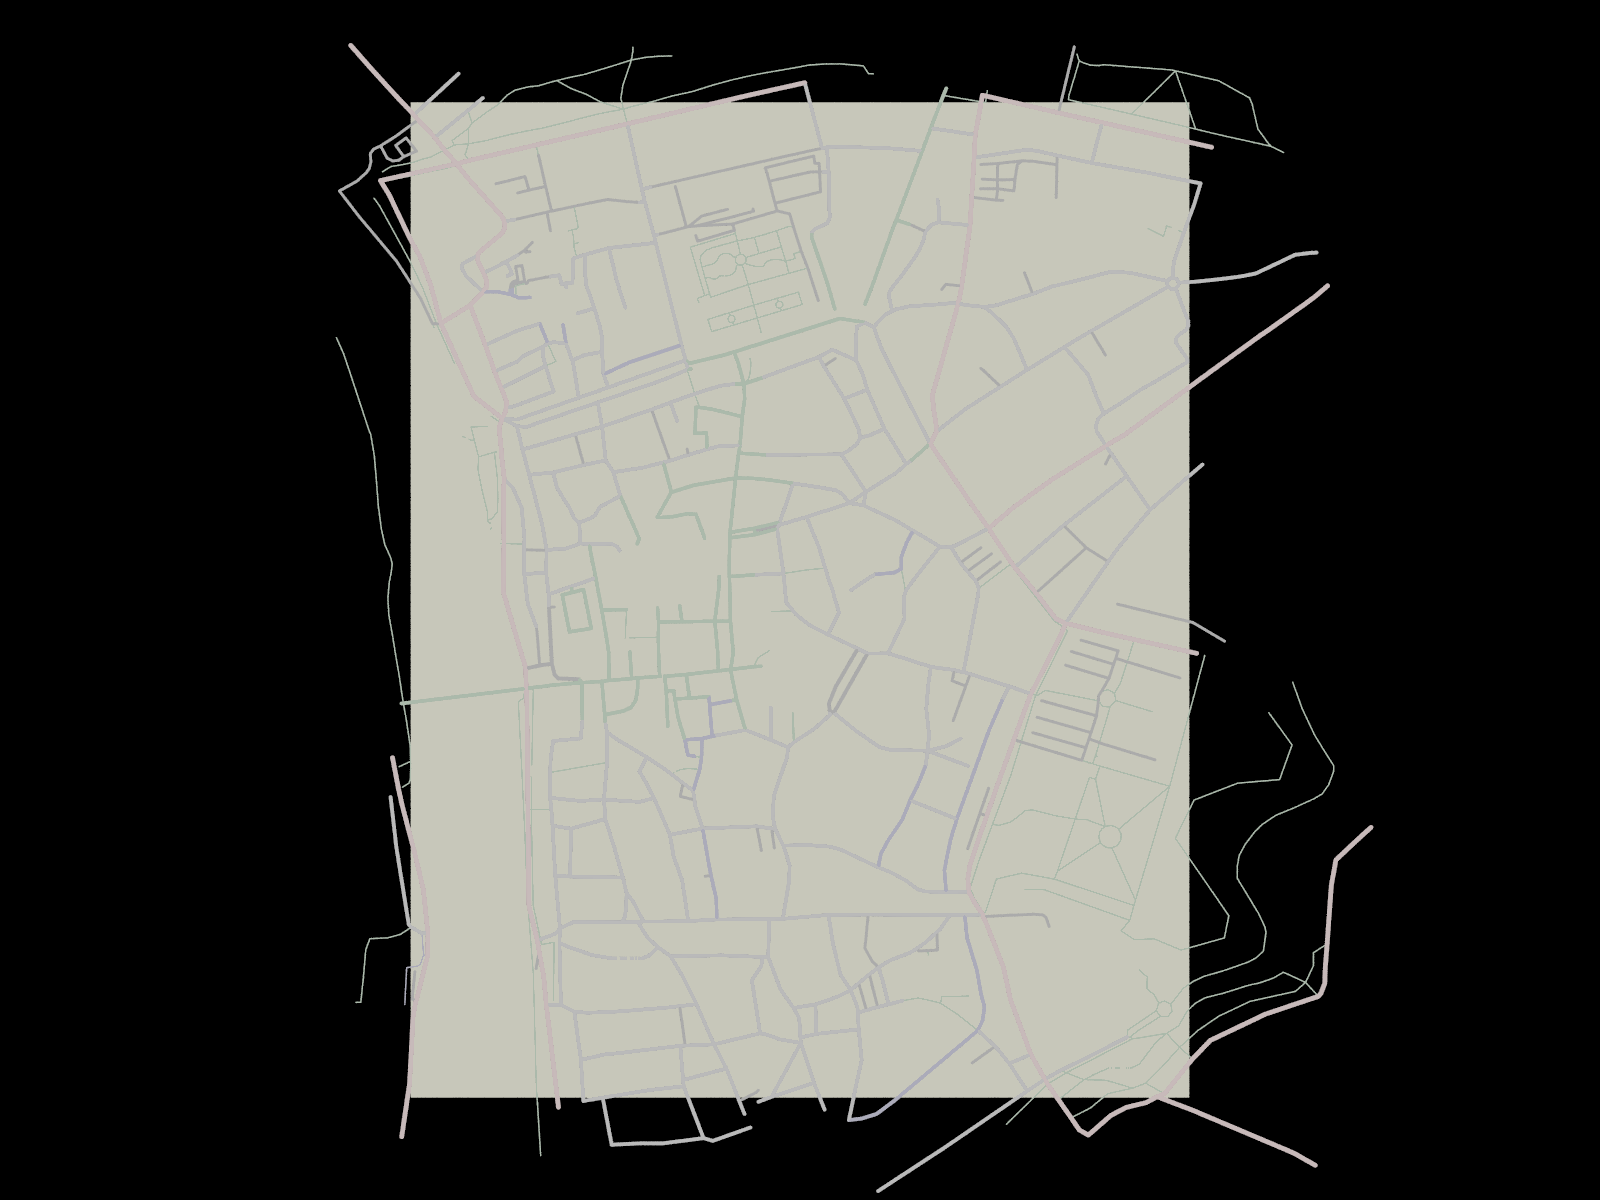
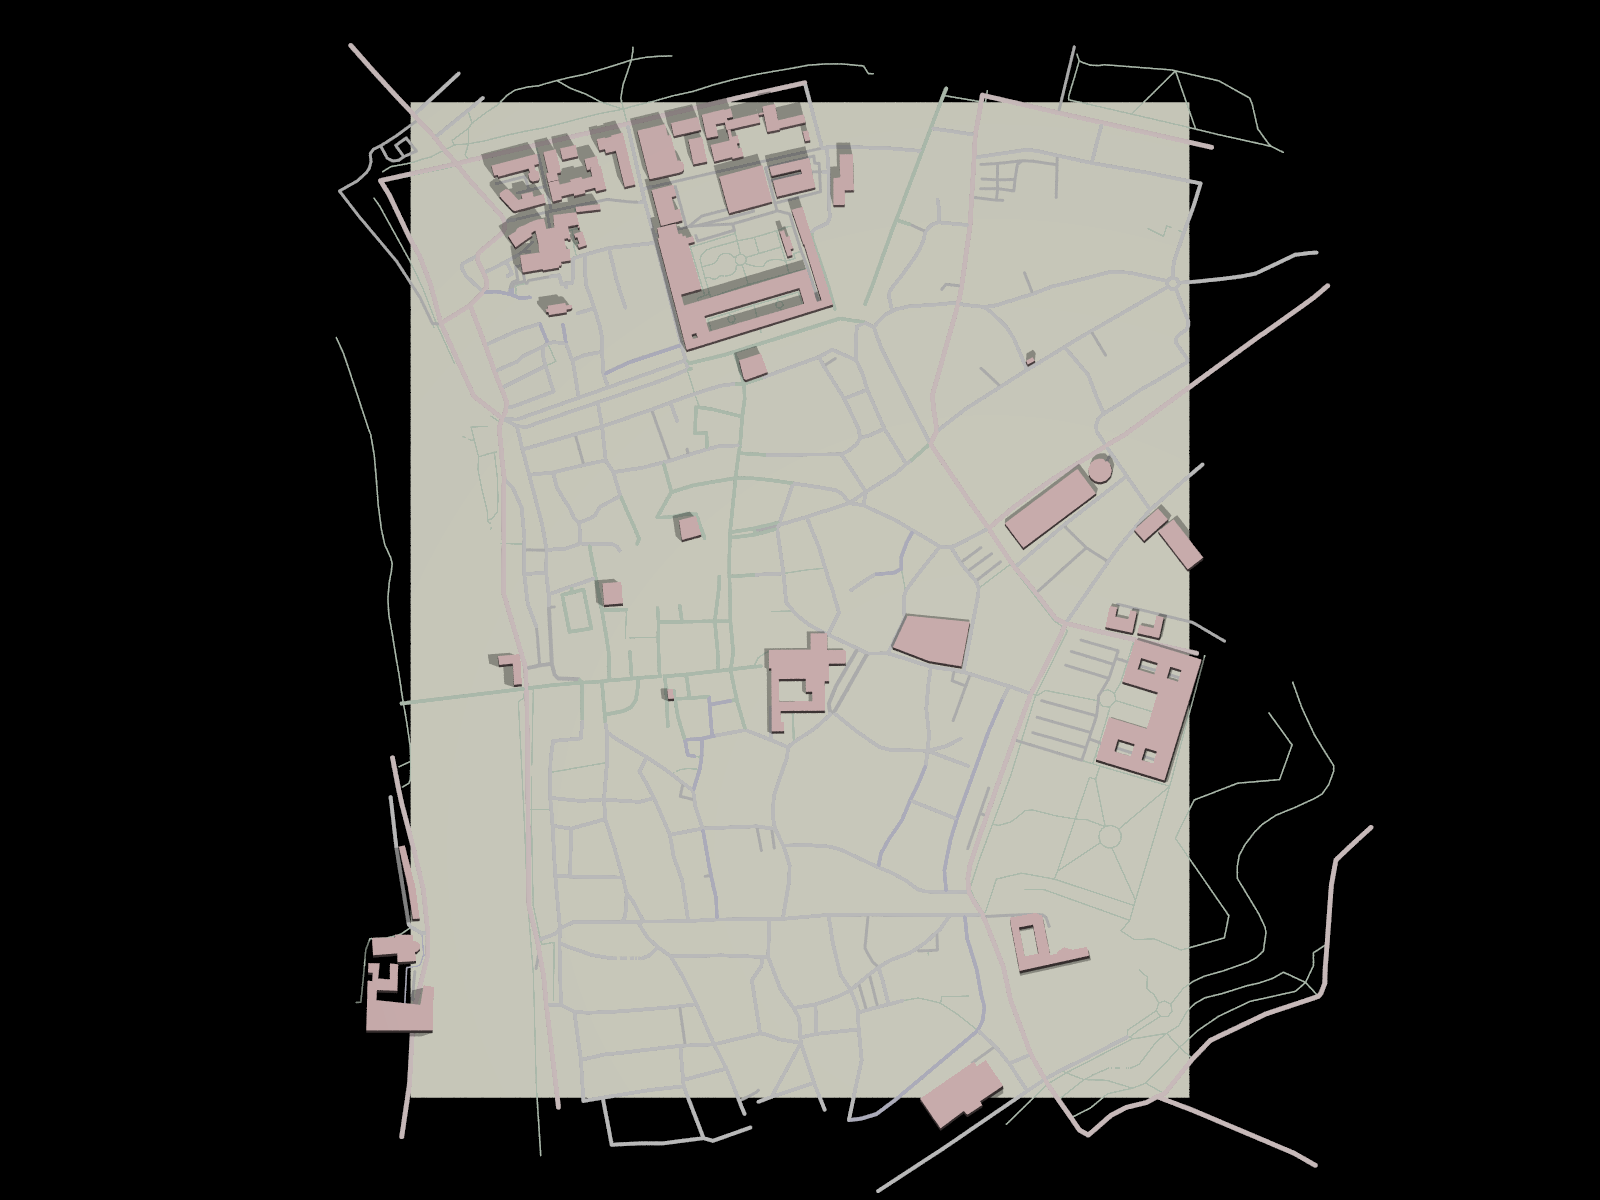
osray: buildings

diff --git a/applications/rendering/parking/osray/osray-gen.py b/applications/rendering/parking/osray/osray-gen.py
@@ -20,6 +20,9 @@ highwaytypes = {
     'cycleway':['<0.8,0.8,0.9>',0.3],
     'path':['<0.8,0.9,0.8>',0.5]
     }
+buildingtypes = {
+    'yes':['<1,0.8,0.8>',1.0],
+    }
 
 def avg(a,b): return (a+b)/2.0
 
@@ -81,6 +84,38 @@ def pov_highway(f,highway):
 }}
 \n""".format(highwayparams[0]))
 
+def pov_building(f,building):
+    buildingtype = building[1]
+    #buildingtype = 'secondary'
+    buildingparams = buildingtypes.get(buildingtype)
+    linestring = building[2]
+    linestring = linestring[8:] # cut off the "POLYGON("
+    linestring = linestring[:-1] # cut off the ")"
+    points = linestring.split(',')#.strip('(').strip(')')
+    print points
+
+    numpoints = len(points)
+    f.write("prism {{ linear_spline  0, 1, {0},\n".format(numpoints))
+    f.write("/* osm_id={0} */\n".format(building[0]))
+
+    for i,point in enumerate(points):
+        latlon = point.split(' ')
+        if (i==0):
+            firstpoint="<{0}, {1}>\n".format(latlon[0],latlon[1])
+        if (i!=numpoints-1):
+            f.write("  <{0}, {1}>,\n".format(latlon[0].strip('(').strip(')'),latlon[1].strip('(').strip(')')))
+        else:
+            f.write("  <{0}, {1}>\n".format(latlon[0].strip('(').strip(')'),latlon[1].strip('(').strip(')')))
+    #f.write(firstpoint)
+
+    f.write("""
+   pigment {{
+      color rgb {0}
+   }}
+   scale <1, 100, 1>
+}}
+\n""".format(buildingparams[0]))
+
 def pov_camera(f,bbox):
     polygonstring = bbox[0][0]
     polygonstring = polygonstring[9:] # cut off the "POLYGON(("
@@ -124,9 +159,14 @@ box {{
 \n""".format(left,bottom,right,top))
     f.write("""
 light_source {{
-   <{0}, 50000, {1}>, rgb <1, 1, 1>
+   <{0}, 50000, {1}>, rgb <0.5, 0.5, 0.5>
 }}
-\n""".format(avg(left,right),avg(bottom,top)))
+\n""".format(avg(left*1.5,right*0.5),avg(bottom*1.5,top*0.5)))
+    f.write("""
+light_source {{
+   <{0}, 5000, {1}>, rgb <0.5, 0.5, 0.5>
+}}
+\n""".format(avg(left*0.5,right*1.5),avg(bottom*1.5,top*0.5)))
 
 
 if len(sys.argv) == 2:
@@ -155,9 +195,8 @@ and highway='secondary' LIMIT 50;
 
 latlon= 'ST_Y(ST_Transform(ST_line_interpolate_point(way,0.5),4326)),ST_X(ST_Transform(ST_line_interpolate_point(way,0.5),4326))'
 coords= "ST_Y(ST_line_interpolate_point(way,0.5)) as py,ST_X(ST_line_interpolate_point(way,0.5)) as px,ST_Y(ST_line_interpolate_point(way,0.49)) as qy,ST_X(ST_line_interpolate_point(way,0.49)) as qx,ST_Y(ST_line_interpolate_point(way,0.51)) as ry,ST_X(ST_line_interpolate_point(way,0.51)) as rx"
-FW = "FROM planet_osm_line WHERE"
-
-### display disc - maxstay
+FlW = "FROM planet_osm_line WHERE"
+FpW = "FROM planet_osm_polygon WHERE"
 
 curs.execute("SELECT ST_AsText(transform(SetSRID('BOX3D(9.92498 49.78816,9.93955 49.8002)'::box3d,4326),900913)) AS geom")
 bbox = curs.fetchall()
@@ -165,13 +204,20 @@ pov_camera(f,bbox)
 
 highways = []
 for highwaytype in highwaytypes.iterkeys():
-    curs.execute("SELECT osm_id,highway,ST_AsText(\"way\") AS geom "+FW+" \"way\" && transform(SetSRID('BOX3D(9.92498 49.78816,9.93955 49.8002)'::box3d,4326),900913) and highway='"+highwaytype+"' LIMIT 2000;")
+    curs.execute("SELECT osm_id,highway,ST_AsText(\"way\") AS geom "+FlW+" \"way\" && transform(SetSRID('BOX3D(9.92498 49.78816,9.93955 49.8002)'::box3d,4326),900913) and highway='"+highwaytype+"' LIMIT 2000;")
     highways += curs.fetchall()
-
-#print highways
 
 for highway in highways:
     pov_highway(f,highway)
+    #pass
+
+buildings = []
+for buildingtype in buildingtypes.iterkeys():
+    curs.execute("SELECT osm_id,building,ST_AsText(\"way\") AS geom "+FpW+" \"way\" && transform(SetSRID('BOX3D(9.92498 49.78816,9.93955 49.8002)'::box3d,4326),900913) and building='"+buildingtype+"' LIMIT 1700;")
+    buildings += curs.fetchall()
+
+for building in buildings:
+    pov_building(f,building)
 
 f.close()
 
